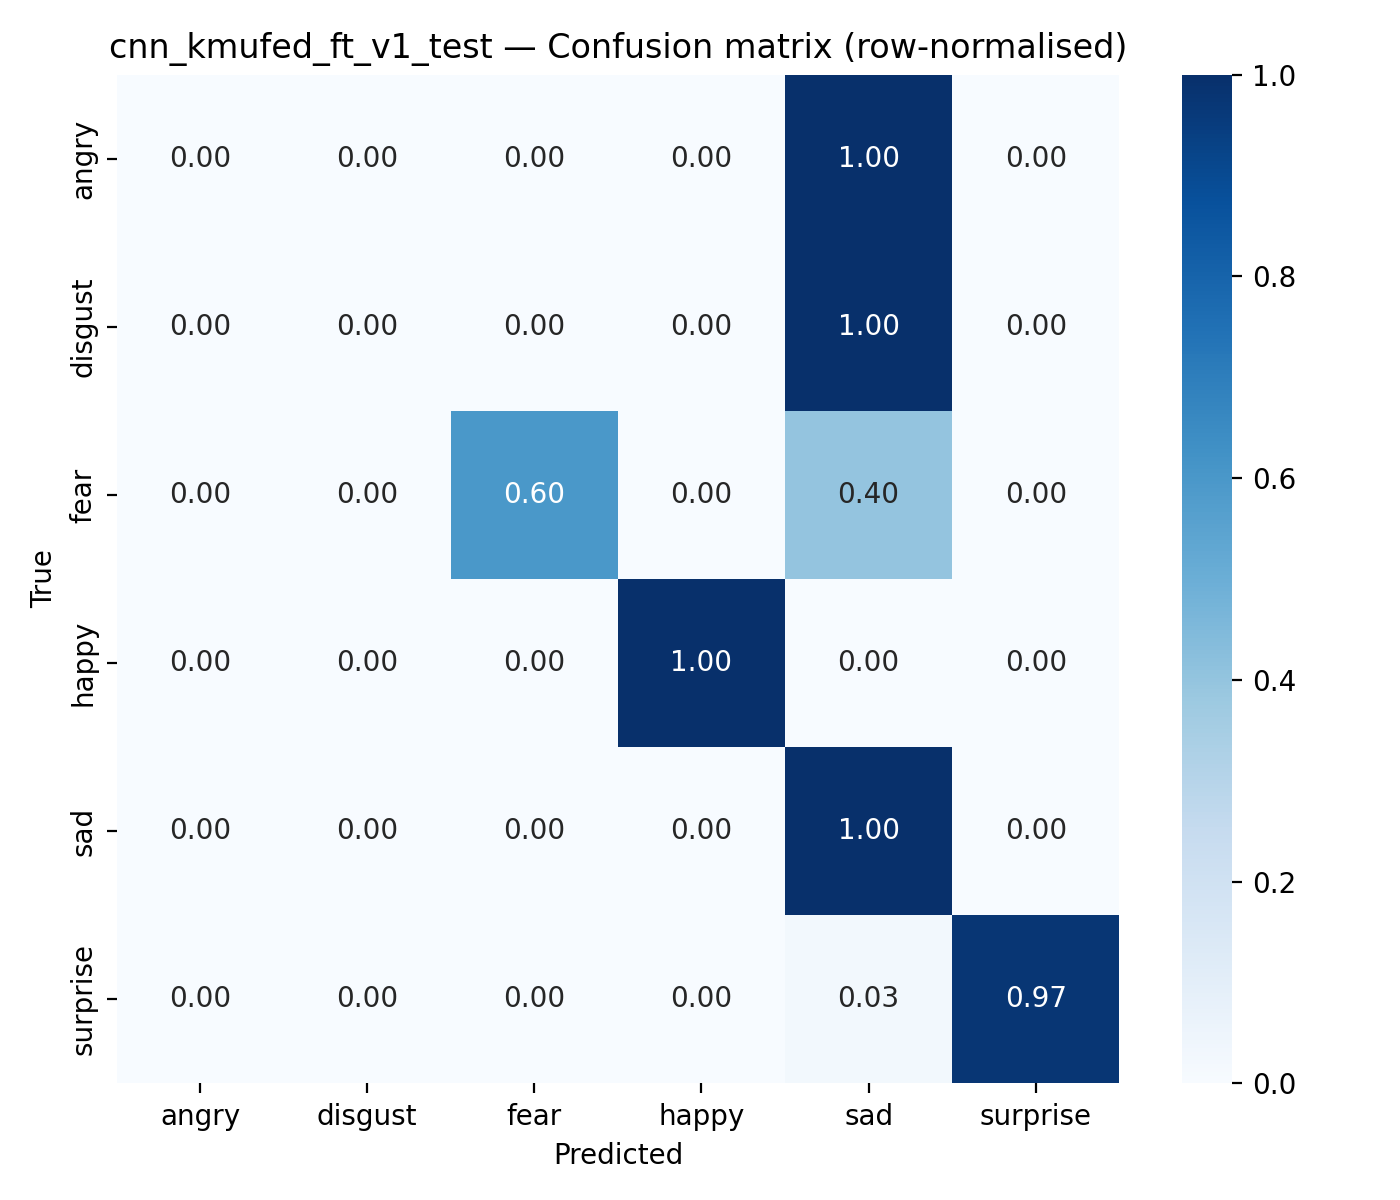
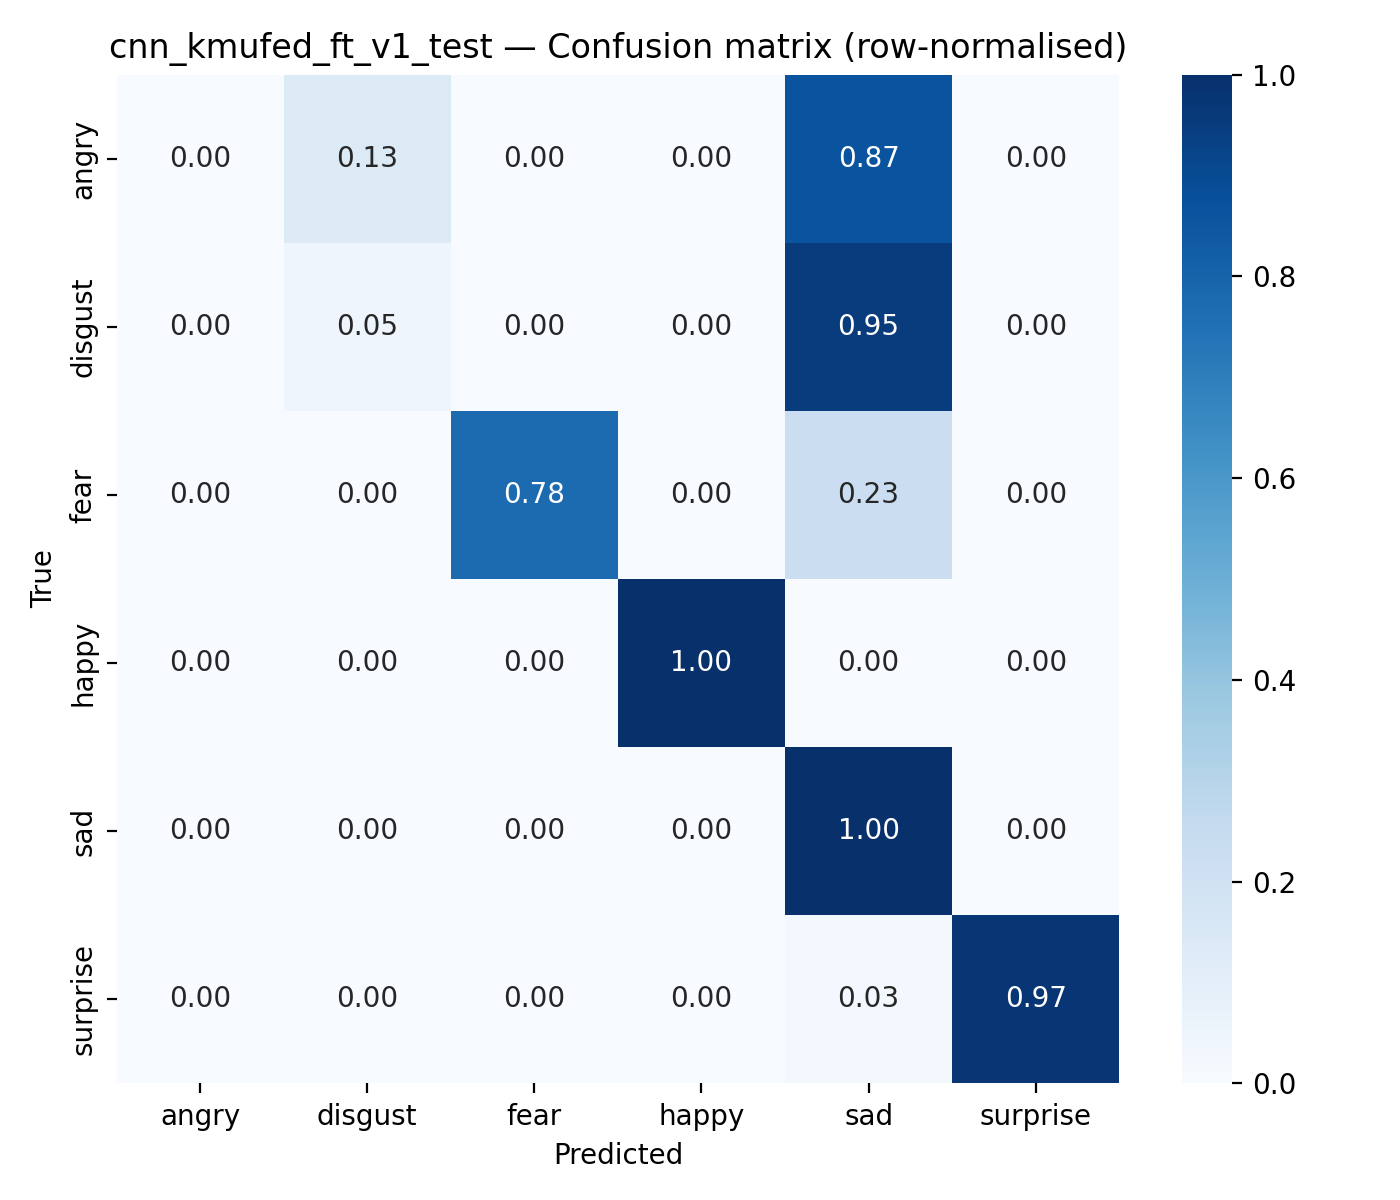
KMU-FED Steps 1+2, attempt 2 (oversample): real results, imported from Kaggle
Best result yet for both models on the 160 held-out test images. cnn_kmufed_ft_v1:
63.1% accuracy, macro-F1 0.560 (vs 58.1%/0.519 with no imbalance handling, 63.1%/~0.55
with class weights) - disgust precision/recall/F1 = 0.20/0.05/0.08, the first time
either model has predicted disgust correctly at all, though angry stays 0/0/0.
vgg16_kmufed_ft_v1: 76.9% accuracy, macro-F1 0.725 (vs 75.6%/0.724 baseline,
71.3%/0.625 with class weights, which made it worse) - a new best on both counts,
but disgust is still 0/0/0 for VGG16 under every strategy tried; angry stays solid
(0.8 F1).

Oversampling helps the CNN learn a little disgust signal but does nothing for VGG16 -
plausibly because it only repeats the same 60 real disgust images with different
augmentation views, which can't manufacture the visual variety a genuinely larger
dataset would. Kept as the new final result since both models improve on accuracy
and macro-F1 together (not just accuracy masking a worse macro-F1).

Kaggle marked this run "Failed" after 3h12m, but the Output tab had complete results
for both models; Step 1's domain-gap numbers came back bit-for-bit identical to the
earlier run and both .keras files load correctly with the right shapes, so the
failure happened in some later step after the real work was already written to
/kaggle/working. Root cause not diagnosed (no traceback captured).

results/runs.csv given only this run's two rows - the class-weight attempt's rows
[…]

diff --git a/docs/experiment_log.md b/docs/experiment_log.md
@@ -19,7 +19,7 @@ Add a line after every run or decision. This becomes the Methods and Results sec
 | 2026-09-21 | 5 | robustness (cnn_v1, vgg16_v1) | `python -m src.robustness` on the FULL test set (7,178 images) x 6 simulated driving conditions, both models, seeded and deterministic: low_light (x0.4 brightness + Gaussian noise sigma 10), glare (x1.6 + random bright blurred ellipse), motion_blur (horizontal 7px), occlusion (random black rectangle ~20% area), head_pose (in-plane rotation +/-20 deg). Run on laptop CPU, ~2 h 20 min (after two bugs were fixed, see Problems and fixes) | **Accuracy (CNN / VGG16):** clean 0.676 / 0.655; low_light 0.286 / 0.218; glare 0.515 / 0.478; motion_blur 0.441 / 0.286; occlusion 0.444 / 0.396; head_pose 0.668 / 0.634. **Macro-F1:** 0.657/0.635; 0.137/0.115; 0.466/0.424; 0.332/0.157; 0.368/0.273; 0.645/0.616 | The custom CNN degrades less than VGG16 under all five corruptions, by (accuracy points lost, VGG16 minus CNN): motion_blur 13.5, low_light 4.8, occlusion 2.7, glare 1.6, head_pose 1.4. Only motion_blur is a large gap; glare and head_pose gaps are small. **Low light is the headline:** both models collapse (CNN keeps 42% of its clean accuracy, VGG16 33%). CNN macro-F1 falls to 0.137, and its 28.6% accuracy is only ~4 points above always predicting *happy* (24.7% of the test set); VGG16's 21.8% is below that baseline, so neither is usable in the dark as trained. Motion blur nearly wrecks VGG16 (macro-F1 0.157) while the CNN keeps 65% of its accuracy. Head rotation of +/-20 deg is nearly harmless (CNN loses 0.8 points, VGG16 2.2), unsurprising since training augmentation already includes rotations up to ~18 deg; brightness augmentation is only +/-20%, far weaker than the x0.4 dimming, and blur, glare and occlusion are not in training augmentation at all, so training with these corruptions is the obvious next step. Sanity check: the clean row (0.6758 / 0.6553) matches `evaluate` (0.6753 / 0.6581) to within 0.3 points. **Caveats:** the corruptions are simple synthetic transforms of clean 48px web images, not real in-cabin recordings; one severity level each; single runs, no confidence intervals; which classes collapse under low light was not analysed. |
 | 2026-09-21 | 4 | significance (cnn_v1 vs vgg16_v1) | `python -m src.significance`: per-image predictions on the full test set for both models (same unshuffled tf.data pipeline as `evaluate`; saved in `results/predictions_*.csv`), 2,000-resample bootstrap CIs (seed 42), a paired bootstrap of the differences, and an exact McNemar test on the discordant images | Accuracy CNN 0.6753 [0.6634, 0.6861], VGG16 0.6581 [0.6467, 0.6697]; macro-F1 CNN 0.6595 [0.6444, 0.6733], VGG16 0.6397 [0.6248, 0.6542]. **Paired difference (CNN - VGG16): accuracy +1.71 points, 95% CI [+0.70, +2.76]; macro-F1 +1.98 points, 95% CI [+0.67, +3.28]. Discordant images: CNN right on 795, VGG16 right on 672 (both right 4,052, both wrong 1,659); McNemar exact p = 0.0014** | The CNN's advantage is small but statistically distinguishable from test-sample noise (both paired CIs exclude 0; p < 0.01). This **corrects the earlier estimate** in the vgg16 evaluation row ("roughly 2 standard errors ... CNN is at least as good"), which was an unpaired approximation and understated significance because the two models' errors are correlated. Individual CIs overlap but the paired CI does not, which is expected when both models are scored on the same images. **Limits:** the bootstrap resamples test images only, so it does not capture training-run variation (each model was trained once; another seed could move either model by an amount not measured), and a <2-point gap is of little practical weight next to the 5.4x speed difference. Sanity checks: accuracies and macro-F1 reproduce `evaluate` exactly (6 decimals); the four agreement cells sum to 7,178; both prediction files share the same label order. The statistics code was first validated on synthetic data with known answers (identical models: p = 1; 0.70 vs 0.60: p ~ 1e-46; equal accuracies: not significant). |
 | 2026-09-26 | 5 | KMU-FED Steps 1 + 2 (real run, Kaggle) | Ran `notebooks/kmu_fed_step1_step2_kaggle_cell.py` on Kaggle via **Save & Run All (Commit)** (an earlier interactive run completed successfully and printed real numbers, but Kaggle does not persist an interactive session's `/kaggle/working` files once that session ends - they were lost before download; this committed run is the one that survived, and is kept as the official result) | **Step 1, domain-gap baseline (both models unchanged):** custom_cnn 67.5% (FER2013) -> 25.6% (KMU-FED), a 41.9-point drop; vgg16 65.8% -> 36.3%, a 29.6-point drop. Both evaluated on all 160 held-out test-subject images, 0 with no face detected. **Step 2, after fine-tuning (15 epochs, early-stopped-eligible but ran the full 15):** cnn_kmufed_ft_v1 58.1% accuracy / 0.519 macro-F1 (train 3.3 min); vgg16_kmufed_ft_v1 75.6% accuracy / 0.724 macro-F1 (train 68.5 min). Both recovered most of the domain-gap loss from under 900 fine-tuning images - a bigger jump than the task's own framing expected ("this isn't going to be a huge jump"), in a good way | **Fine-tuning flips the FER2013 ranking:** on FER2013 the custom CNN was slightly ahead of VGG16 (67.5% vs 65.8%); on KMU-FED after fine-tuning VGG16 is clearly ahead (75.6% vs 58.1%), plausibly because its ImageNet features generalise better to KMU-FED's different capture conditions and it had 5 unfrozen conv layers to adapt with (vs the CNN's 2), at the cost of 20x the fine-tuning time. **Disgust remains completely unlearned by both models** (precision=recall=f1=0.0 for both, despite 60 real disgust training images from 4 covered train subjects and 20 real disgust test images from the covered test subject `ej`) - consistent with disgust being the hardest class throughout this whole project (FER2013 too), now confirmed under an even harder low-data regime. cnn_kmufed_ft_v1 also completely fails on *angry* (0/0/0), while vgg16_kmufed_ft_v1 gets it right (0.8 F1); both get *happy* and *sad* right. **Run-to-run variance, observed directly:** the lost interactive run (same code, same seed, same data) reported cnn_kmufed_ft_v1 61.9% and vgg16_kmufed_ft_v1 68.1% - different from this committed run's 58.1%/75.6% - while Step 1's domain-gap numbers (no training involved) were bit-for-bit identical both times. This is a live, concrete illustration of the single-training-run caveat already stated throughout this project (paper Section 5.5: "each model was trained once; another seed could move either model by an amount not measured") - it now applies to the KMU-FED fine-tuning too. **New model files:** `models/cnn_kmufed_ft_v1.keras`, `models/vgg16_kmufed_ft_v1.keras` - both verified to load correctly (6-class output, correct input shape/channels) and to predict a sensible top class on a real photo via `app_collect.py`'s own pipeline (`model_class_names` + `predict_face`), confirming the site correctly displays them: model dropdown lists both alongside the existing models, sidebar preprocessing badge correctly reads 'vgg16'/'custom_cnn' for each. **Caveats, unchanged from the plan:** 160-image test set (2 subjects), single training run per model, and this is still web-photo-trained features meeting a real in-cabin domain - a genuinely useful result, not a claim that either model is ready to drive on. |
-| 2026-09-26 | 5 | KMU-FED imbalance fix, attempt 2: oversampling (code, not yet run on Kaggle) | Attempt 1 (class weights, `_safe_class_weights` reused from `src/data.py`) was run on Kaggle and its results reviewed but never imported: cnn_kmufed_ft_v1 improved 58.1% -> 63.1% accuracy (macro-F1 0.519 -> ~0.55) but vgg16_kmufed_ft_v1 got worse, 75.6% -> 71.3% (macro-F1 0.724 -> 0.625), and **disgust stayed at 0/0/0 precision/recall/F1 for both models under class weighting too** - reweighting the loss didn't give the model any more actual examples of disgust to learn from. `src/train_kmu_fed_finetune.py` now has `--balance {none,class_weight,oversample}` (default `oversample`): the new `_oversample_to_balance()` duplicates minority-class train images (with replacement) up to the majority class's count before building the `tf.data.Dataset`, so a duplicated disgust image still gets a fresh augmented view each epoch (the augmentation `.map()` is lazy, per `_make_dataset`) instead of just counting more in the loss | No real numbers yet for oversampling - not run against the actual KMU-FED images on Kaggle | Re-ran the same local end-to-end smoke test used for both previous KMU-FED code changes (real `cnn_v1.keras`/`vgg16_v1.keras`, a synthetic flat KMU-FED-style fixture built from real FER2013 photos resized to fill the frame - this time detected reliably, 208/288 train images, vs. only 10/36 with the cruder canvas used for the first smoke test) at `--epochs 2`: all three `--balance` modes (`none`, `class_weight`, `oversample`) ran cleanly for `custom_cnn`, and `oversample` also ran cleanly for `vgg16` (2.6 min on CPU for 2 epochs); confirmed `_oversample_to_balance` balances every class to the majority count (checked directly against the real 8-train-subject distribution: 700 images -> disgust's 60 duplicated up to the majority class's count, same as every other class). All test artifacts (`models/TEST_*.keras`, `results/TEST_*`, `results/runs.csv` stray rows, the synthetic fixture directory) deleted afterward, not committed. New test `test_oversample_to_balance_evens_out_the_real_train_split` locks this in. All 57 tests pass. Not yet run on Kaggle for real numbers - same `notebooks/kmu_fed_step1_step2_kaggle_cell.py`, no changes needed there since it doesn't pass `--balance` and will pick up the new default. |
+| 2026-09-27 | 5 | KMU-FED imbalance fix, attempt 2: oversampling (real run, Kaggle) | Attempt 1 (class weights, `_safe_class_weights` reused from `src/data.py`) was run on Kaggle and its results reviewed but never imported: cnn_kmufed_ft_v1 improved 58.1% -> 63.1% accuracy (macro-F1 0.519 -> ~0.55) but vgg16_kmufed_ft_v1 got worse, 75.6% -> 71.3% (macro-F1 0.724 -> 0.625), and disgust stayed at 0/0/0 precision/recall/F1 for both models under class weighting too. Attempt 2 (`--balance oversample`, now the script's default): `_oversample_to_balance()` duplicates minority-class train images up to the majority class's count before building the `tf.data.Dataset`, so a duplicated disgust image still gets a fresh augmented view each epoch instead of just counting more in the loss. Ran via `notebooks/kmu_fed_step1_step2_kaggle_cell.py`, **Save & Run All (Commit)** - Kaggle marked the version "Failed" after 3h12m, but the Output tab still had complete results for both models (full 15-epoch histories, both test-metrics JSONs, both confusion-matrix figures); Step 1's domain-gap numbers came back bit-for-bit identical to the earlier run and both `.keras` files load correctly with the right shapes, so the failure happened in some later step, after the real work was already done and written to `/kaggle/working` - root cause not diagnosed (no traceback was captured), but the output is trustworthy | **On the 160 held-out test images, oversampling is the best of the three attempts for both models.** cnn_kmufed_ft_v1: 63.1% accuracy, macro-F1 0.560 (vs 58.1%/0.519 for `none` and 63.1%/~0.55 for `class_weight`) - **disgust precision/recall/F1 = 0.20/0.05/0.08, the first time either model has predicted disgust correctly at all** (1 of 20 disgust test images), though *angry* is still 0/0/0 under all three strategies. vgg16_kmufed_ft_v1: 76.9% accuracy, macro-F1 0.725 - a new best on both counts (vs 75.6%/0.724 for `none`, 71.3%/0.625 for `class_weight`) - but **disgust is still 0/0/0 for VGG16 under every balance strategy tried**; *angry* stays solid (0.8 F1, matching the `none` run) | Oversampling helps the custom CNN learn disgust a little (still very weak: 1/20 correct) but does nothing for VGG16's disgust, which non-trivially needs work beyond train-set balancing (likely too few *distinct* disgust images - only 60 real train images from 4 subjects, oversampling only repeats those same 60 with different augmentation views, it can't manufacture the visual variety a genuinely larger dataset would). Both models still improve on their `none` baseline overall (accuracy and macro-F1 both up, not just accuracy masking a worse macro-F1), so this is kept as the new final result: `models/cnn_kmufed_ft_v1.keras`/`models/vgg16_kmufed_ft_v1.keras` and their `results/*_kmu_fed_test_metrics.json`/`*_history.csv`/confusion-matrix figures overwritten with this run's files, `results/runs.csv` given this run's two rows (the class-weight run's rows were never imported, consistent with the decision not to keep that attempt). Model files reverified to load correctly post-import (6-class output, correct input shape/channels for both). Verified locally before any of this via the full smoke test in the previous log entry; disgust for VGG16 remains an open limitation to note in the paper rather than something worth a third imbalance-handling attempt on the same 60 images. |
 | 2026-09-25 | 5 | KMU-FED Steps 1 + 2 (code, not yet run on Kaggle) | Extended `src/evaluate.py` with `--dataset kmu_fed` (Step 1: loads `cnn_v1.keras`/`vgg16_v1.keras` unchanged, runs face-detect+crop+predict on the held-out test subjects via `src.realtime.predict_face`, drops and renormalizes the 'neutral' logit over the 6 shared classes, writes `results/kmu_fed_domain_gap.csv` and `results/figures/kmu_fed_confusion_*.png`). New `src/train_kmu_fed_finetune.py` (Step 2: replaces each model's final 'predictions' layer with a fresh 6-unit head, freezes everything except that head and the last conv block by reusing `src.models.vgg16_tl.unfreeze_top` unchanged - same mechanism vgg16_v1's own stage-2 training used, including its keep-BatchNorm-frozen rule - trains on the 8 KMU-FED train subjects with heavier-than-FER2013 augmentation, validates on the 2 val subjects, evaluates on the 2 held-out test subjects, saves as NEW files `models/cnn_kmufed_ft_v1.keras`/`models/vgg16_kmufed_ft_v1.keras` and new `results/runs.csv` rows). New `notebooks/kmu_fed_step1_step2_kaggle_cell.py` runs both steps end to end on Kaggle in one committed session. `app_collect.py` also given a `model_class_names()` helper so a 6-class fine-tuned model displays correctly in the app (dropdown, badges, charts) without any other changes, since KMU-FED's 6 classes map 1:1, in order, onto FER2013's classes minus neutral | No real numbers yet - not run against the actual KMU-FED images, since those only exist on Kaggle | **What was validated locally, without the real dataset or a GPU:** (1) the model-surgery + freezing logic, against the real `cnn_v1.keras`/`vgg16_v1.keras` files - confirmed 6-unit output, correct frozen/trainable layer boundaries (`block4_conv1`/`block5_conv1` onward), and a valid softmax forward pass for both architectures. (2) The full Step 1 domain-gap pipeline and the full Step 2 training pipeline (data loading, augmentation order, model surgery, `model.fit`, checkpointing, reload-from-disk, held-out evaluation, `runs.csv` append), run end to end against a synthetic flat KMU-FED-style directory built from real FER2013 photos pasted onto a cabin-sized canvas and named in KMU-FED's exact `<subject>_<class>_<initials>_<index>.jpg` convention - this caught zero bugs on the first fully-assembled run, but also produced no meaningful numbers (2 epochs, tiny synthetic set) and was deleted afterward, not committed. (3) `notebooks/kmu_fed_step1_step2_kaggle_cell.py`'s path-finding helpers, against a fake nested `/kaggle/input/datasets/<owner>/<slug>/` tree matching the real layout Step 0 found. **Not yet known:** the real face-detection hit rate on actual KMU-FED photos (the synthetic test's pasted faces were detected only 10/36 times, an artefact of the crude synthetic canvas, not informative about the real images, which look like normal detectable frontal faces per the Step 0 sample grid), and therefore the real domain-gap and fine-tuned accuracy numbers. Waiting on the project owner to run `notebooks/kmu_fed_step1_step2_kaggle_cell.py` on Kaggle (needs `cnn_v1.keras`/`vgg16_v1.keras` uploaded there as a private dataset input, alongside KMU-FED) and report back. |
 | 2026-09-25 | 5 | KMU-FED Step 0 (inspection) + subject split | Added `anandpanajkar/kmu-fed` as a Kaggle input and ran `notebooks/kmu_fed_inspect_cell.py` (iterated 3 times: dataset actually mounts under `/kaggle/input/datasets/<owner>/<slug>/` on this account, not directly under `/kaggle/input/<slug>/`; the layout turned out to be flat with no class folders at all, class/subject encoded in the filename instead) to discover the real structure before writing any pipeline code, then `python -m src.kmu_fed_data` locally to resolve the held-out subject split | 1,106 images, flat directory, named `<subject>_<class>_<initials>_<index>.jpg` (e.g. `01_AN_mr_001.jpg`). 6 classes confirmed, no neutral: AN=196, DI=120, FE=200, HA=210, SA=180, SU=200. 1600x1200 RGB files that are visually monochrome (identical across channels) - an NIR/night-vision-style in-cabin capture, not an ordinary color photo, and full driver-cabin scenes (headrest, window, seatbelt visible), not pre-cropped faces like FER2013. 12 subjects, cleanly identified by the filename's initials field (dy, ej, gu, ko, mr, nh, s01, s02, s03, sj, sw, uj); the filename's separate numeric field has a bug (subject `mr` ships as both `01` and a malformed `1`, a dropped leading zero on 6 files) fixed by always `int()`-casting it before grouping - confirmed via a field2 x field0 cross-tab showing a clean 1:1 mapping everywhere except that one case. Seeded (42, first try) constrained subject-level split (8 train / 2 val / 2 test): TRAIN {3,4,6,7,8,9,10,12} = s02,s03,dy,sw,nh,sj,ko,gu; VAL {1,5} = mr,uj; TEST {2,11} = s01,ej. Saved to `results/kmu_fed_subject_split.json` | **Why the split is constrained, not purely random (this is the methods-section reasoning):** only 7 of the 12 subjects (dy, ej, gu, ko, mr, nh, uj) contributed any disgust images at all - the other 5 (s01, s02, s03, sj, sw) contributed zero. Held-out subjects were therefore selected via seeded random sampling constrained so every class remains represented in val and test, because 5 of 12 KMU-FED subjects contributed zero disgust images; an unconstrained draw could easily have left disgust with no val/test examples at all, making its macro-F1 undefined for that split. The constraint only requires at least one disgust-covered subject in val and in test separately (not every subject, and not train, since Step 1 doesn't train on KMU-FED at all); seed 42 satisfied it on the first try, so no resampling was needed here, though `select_subject_split()` would have tried 43, 44, ... deterministically if it hadn't. Other classes have much smaller gaps (1-2 subjects each with zero: AN missing for 1 subject, FE for 1, HA for 1, SA for 2, SU for 1) and were not specifically protected, since disgust was the only one severe enough to risk an empty split. Full per-subject-per-class counts and the zero-coverage table for all 6 classes are in `results/kmu_fed_subject_split.json` and reproducible via `python -m src.kmu_fed_data` (falls back to this run's published counts when the raw files aren't present locally, e.g. off Kaggle). **Not yet done:** the actual domain-gap evaluation (Step 1's `--dataset kmu_fed` option on `src/evaluate.py`) - stopped here per instruction, to confirm the split before running any inference. |
 | 2026-09-22 | 10 | APA citations, humanizer pass, in-car deployment guide | Converted the reference list and every in-text citation from IEEE numeric to APA 7th edition (author-date), reviewed `paper.md`'s prose against the humanizer skill's AI-writing-pattern checklist, and wrote `docs/car_deployment_guide.md` (hardware, wiring, mounting, software and safety/legal guidance for running this model in an actual vehicle), also reviewed against the same checklist | Paper: 16 pages, unchanged page count; prose already had none of the checked AI patterns (no em-dash abuse, puffery, vague attributions, filler or hedging stacks), so no rewrites were needed. Guide: 4 pages, same check, also clean | `paper/build_docx.py` was generalised to take an optional source/output path (`python3 paper/build_docx.py SRC.md OUT.docx`) so it can build the guide as well as the paper, and one real bug was found and fixed in the process: separate numbered lists in the same document (e.g. Section 4.5's three findings and Section 5.4's four pitfalls) were sharing Word's built-in auto-numbering counter, so the second list rendered as items 4-7 instead of 1-4. Fixed by numbering list items by hand from the Markdown source instead of relying on Word's "List Number" style; re-verified both documents render 1..N per list. |
